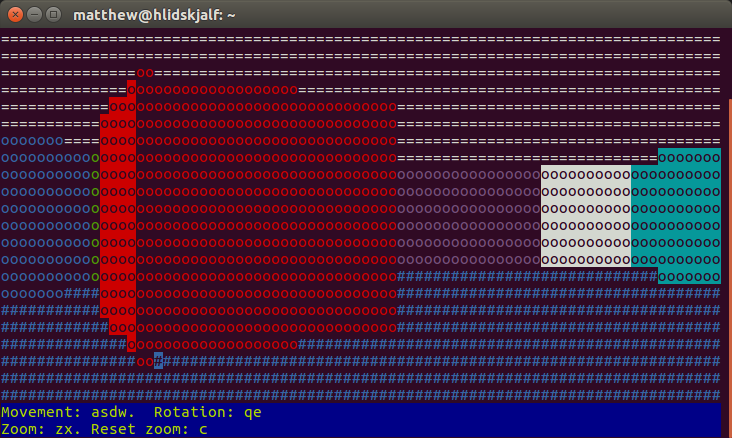
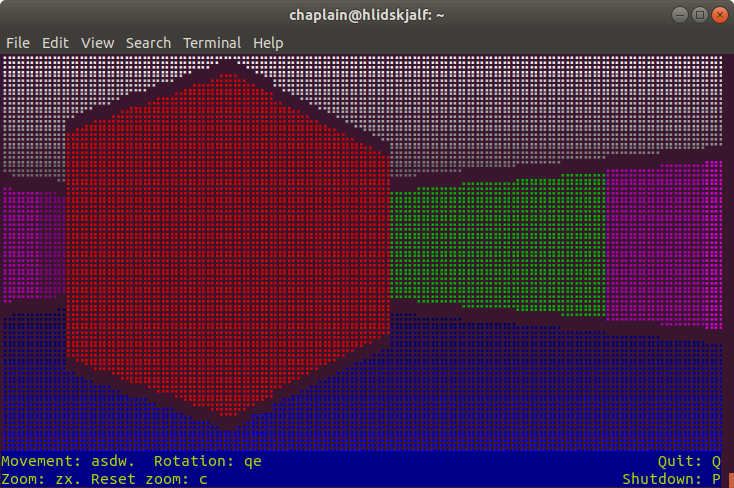
Shadowed braille (#19)
* Scene described as braille characters.
* Characters are darkened dependant on distance from the camera.
* Used variable braille characters to provide smoother edges.
* Updated screenshot to reflect new braille patterns.

diff --git a/src/camera.cpp b/src/camera.cpp
@@ -1,19 +1,149 @@
 #include "camera.hpp"
+#include <terminalpp/palette.hpp>
+#include <map>
 #include <math.h>
 #include <vector2d.hpp>
+
+static terminalpp::colour darken_high_colour(terminalpp::high_colour col, int percentage)
+{
+    auto const red_component = terminalpp::ansi::graphics::high_red_component(col.value_);
+    auto const green_component = terminalpp::ansi::graphics::high_green_component(col.value_);
+    auto const blue_component = terminalpp::ansi::graphics::high_blue_component(col.value_);
+
+    auto const darkened_red_component = terminalpp::byte((int(red_component) * (100 - percentage)) / 100);
+    auto const darkened_green_component = terminalpp::byte((int(green_component) * (100 - percentage)) / 100);
+    auto const darkened_blue_component = terminalpp::byte((int(blue_component) * (100 - percentage)) / 100);
+
+    return terminalpp::high_colour(
+        darkened_red_component,
+        darkened_green_component,
+        darkened_blue_component);
+}
+
+static terminalpp::colour darken_greyscale_colour(terminalpp::greyscale_colour col, int percentage)
+{
+    auto const greyscale_component = terminalpp::ansi::graphics::greyscale_component(col.shade_);
+    auto const darkened_greyscale_component = terminalpp::byte((int(greyscale_component) * (100 - percentage)) / 100);
+
+    return terminalpp::greyscale_colour{darkened_greyscale_component};
+}
+
+static terminalpp::colour darken_low_colour(terminalpp::low_colour col, int percentage)
+{  
+    if (col == terminalpp::graphics::colour::white)
+    {
+        return darken_greyscale_colour(terminalpp::greyscale_colour{23}, percentage);
+    }
+    else
+    {
+        static auto low_to_high_mapping = 
+            std::map<terminalpp::low_colour, terminalpp::high_colour> {
+                { terminalpp::graphics::colour::black,    terminalpp::high_colour{0, 0, 0}},
+                { terminalpp::graphics::colour::red,      terminalpp::high_colour{5, 0, 0}},
+                { terminalpp::graphics::colour::green,    terminalpp::high_colour{0, 5, 0}},
+                { terminalpp::graphics::colour::yellow,   terminalpp::high_colour{5, 5, 0}},
+                { terminalpp::graphics::colour::blue,     terminalpp::high_colour{0, 0, 5}},
+                { terminalpp::graphics::colour::magenta,  terminalpp::high_colour{5, 0, 5}},
+                { terminalpp::graphics::colour::cyan,     terminalpp::high_colour{0, 5, 5}},
+                { terminalpp::graphics::colour::default_, terminalpp::high_colour{0, 0, 0}}
+            };
+        
+        return darken_high_colour(low_to_high_mapping[col], percentage);
+    }
+}
+
+static terminalpp::colour darken_colour(terminalpp::colour col, int percentage)
+{
+    switch (col.type_)
+    {
+        case terminalpp::colour::type::low: 
+            return darken_low_colour(col.low_colour_, percentage);
+            break;
+
+        case terminalpp::colour::type::high: 
+            return darken_high_colour(col.high_colour_, percentage); 
+            break;
+
+        case terminalpp::colour::type::greyscale: 
+            return darken_greyscale_colour(col.greyscale_colour_, percentage); 
+            break;
+    }
+}
+
+static int lerp0(int high, int percentage)
+{
+    return (high * percentage) / 100;
+}
+
+// Top glyph with dots blanked for height (so a height of 3.1 would only have lower dots, whereas
+// 3.8 would have only high dots missing
+static terminalpp::glyph top_glyph(double const height)
+{
+    using namespace terminalpp::literals;
+
+    double const adjusted_height = 1 - (height - int(height));
+    return adjusted_height < 0.25 ? "\\U28C0"_ete.glyph_
+         : adjusted_height < 0.50 ? "\\U28E4"_ete.glyph_
+         : adjusted_height < 0.75 ? "\\U28F6"_ete.glyph_
+                                  : "\\U28FF"_ete.glyph_;
+}
+
+// The top ceiling glyph will be adjusted so that there is always
+// 3/4 of a character's height between the top of the wall and the
+// ceiling.
+static terminalpp::glyph top_ceiling_glyph(double const height)
+{
+    using namespace terminalpp::literals;
+
+    double const adjusted_height = 1 - (height - int(height));
+    return adjusted_height < 0.25 ? "\\U28FF"_ete.glyph_
+         : adjusted_height < 0.50 ? "\\U283F"_ete.glyph_
+         : adjusted_height < 0.75 ? "\\U281B"_ete.glyph_
+                                  : "\\U2809"_ete.glyph_;
+}
+
+// Likewise bottom glyphs miss dots from the bottom up.
+static terminalpp::glyph bottom_glyph(double const height)
+{
+    using namespace terminalpp::literals;
+
+    double const adjusted_height = height - int(height);
+    return adjusted_height < 0.25 ? "\\U2809"_ete.glyph_
+         : adjusted_height < 0.50 ? "\\U281B"_ete.glyph_
+         : adjusted_height < 0.75 ? "\\U283F"_ete.glyph_
+                                  : "\\U28FF"_ete.glyph_;
+}
+
+// Likewise bottom floor glyphs maintain 3/4 of a character's
+// distance at all times.
+static terminalpp::glyph bottom_floor_glyph(double const height)
+{
+    using namespace terminalpp::literals;
+
+    double const adjusted_height = height - int(height);
+    return adjusted_height < 0.25 ? "\\U28FF"_ete.glyph_
+         : adjusted_height < 0.50 ? "\\U28F6"_ete.glyph_
+         : adjusted_height < 0.75 ? "\\U28E4"_ete.glyph_
+                                  : "\\U28C0"_ete.glyph_;
+}
 
 static void render_ceiling(
     std::vector<terminalpp::string> &content,
     terminalpp::extent size)
 {
     using namespace terminalpp::literals;
-    static auto const ceiling_brush = "\\[7="_ets[0];
+    static auto const ceiling_glyph = "\\U28FF"_ete.glyph_;
+    auto base_colour = terminalpp::palette::grey93;
     
     auto const max_ceiling_row = size.height_ / 2;
+    auto const dropoff_per_segment = 100 / (max_ceiling_row - 1);
 
     for (int row = 0; row < max_ceiling_row; ++row)
     {
-        content.emplace_back(size.width_, ceiling_brush);
+        auto const dropoff = dropoff_per_segment * row;
+        auto const col = darken_colour(base_colour, lerp0(90, dropoff));
+        
+        content.emplace_back(size.width_, terminalpp::element{ceiling_glyph, col});
     }
 }
 
@@ -22,12 +152,18 @@ static void render_floor(
     terminalpp::extent size)
 {
     using namespace terminalpp::literals;
-    static auto const floor_brush = "\\[4#"_ets[0];
+    static auto const floor_glyph = "\\U28FF"_ete.glyph_;
+    auto base_colour = terminalpp::palette::blue100;
     
     auto const min_floor_row = size.height_ / 2;
+    auto const dropoff_per_segment = 100 / ((size.height_ - min_floor_row) - 1);
+
     for (int row = min_floor_row; row < size.height_; ++row)
     {
-        content.emplace_back(size.width_, floor_brush);
+        auto const dropoff = dropoff_per_segment * (row - min_floor_row);
+        auto const col = darken_colour(base_colour, 90 - lerp0(90, dropoff));
+
+        content.emplace_back(size.width_, terminalpp::element{floor_glyph, col});
     }
 }
 
@@ -38,8 +174,8 @@ static void render_walls(
     double heading,
     double fov)
 {
-    static const double TEXTEL_ASPECT = 2.0;  // textel_height / textel_width
-    static const double WALL_HEIGHT   = 1.0;  // height of walls, in world units
+    static constexpr double textel_aspect = 2.0;  // textel_height / textel_width
+    static constexpr double wall_height   = 1.0;  // height of walls, in world units
 
     // FoV has to be between 0 and 180 degrees (exclusive).
     assert(fov > 0.0001);
@@ -66,7 +202,7 @@ static void render_walls(
     // Calculate the linear scale of the vertical FoV based on the viewport's aspect ratio
     // (taking the textel aspect ratio into consideration as well).
     const double tanHalfFov = tan(fov / 2);
-    const double fovScaleY = tanHalfFov / view_width * view_height * TEXTEL_ASPECT;
+    const double fovScaleY = tanHalfFov / view_width * view_height * textel_aspect;
 
     for (terminalpp::coordinate_type x = 0; x < view_width; ++x)
     {
@@ -142,24 +278,43 @@ static void render_walls(
         {
             // Calculate height of line to draw on screen.
             // Correct for the textel aspect ratio to make sure the height is correct on the screen.
-            auto lineHeight = view_height * WALL_HEIGHT / perpWallDist / fovScaleY / TEXTEL_ASPECT;
+            auto lineHeight = view_height * wall_height / perpWallDist / fovScaleY / textel_aspect;
   
             // Calculate lowest and highest textel to fill in current stripe
-            int drawStart = std::max( (int)round(view_height / 2.0 - lineHeight / 2), 0);
-            int drawEnd   = std::min( (int)round(view_height / 2.0 + lineHeight / 2), view_height);
+            double drawStart = std::max(view_height / 2.0 - lineHeight / 2.0, 0.0);
+            double drawEnd   = std::min(view_height / 2.0 + lineHeight / 2.0, double(view_height));
         
-            for (terminalpp::coordinate_type row = drawStart; row < drawEnd; ++row)
-            {
-                terminalpp::element brush('o');
-                brush.attribute_.foreground_colour_ = terminalpp::graphics::colour(
-                  plan[mapY][mapX].fill.glyph_.character_);
+            using namespace terminalpp::literals;
+            static auto const cube_glyph = "\\U28FF"_ete.glyph_;
+            auto const high_glyph = top_glyph(drawStart);
+            auto const low_glyph  = bottom_glyph(drawEnd);
 
-                if (side == 0)
-                {
-                    brush.attribute_.polarity_ = terminalpp::graphics::polarity::negative;
-                }
+            if (int(drawStart) > 0)
+            {
+                content[int(drawStart) - 1][x].glyph_ = top_ceiling_glyph(drawStart);
+            }
+
+            for (terminalpp::coordinate_type row = int(drawStart); row < int(drawEnd); ++row)
+            {
+                auto const colour = terminalpp::colour{terminalpp::low_colour{
+                    terminalpp::graphics::colour(plan[mapY][mapX].fill.glyph_.character_)}};
+
+                auto const darkest_distance = 5;
+                auto const percentage_factor = 100 / darkest_distance;
+                auto const distance = std::min(int(perpWallDist), darkest_distance);
+                auto const darkness_percentage = distance * percentage_factor;
+
+                auto const darkened_colour = darken_colour(colour, lerp0(90, darkness_percentage));
+                auto const brush  = terminalpp::element{
+                    (row == int(drawStart) ? high_glyph : row == (int(drawEnd) - 1) ? low_glyph : cube_glyph), 
+                    darkened_colour};
 
                 content[row][x] = brush;
+            }
+
+            if (int(drawEnd) < view_height)
+            {
+                content[int(drawEnd)][x].glyph_ = bottom_floor_glyph(drawEnd);
             }
         }
     }
